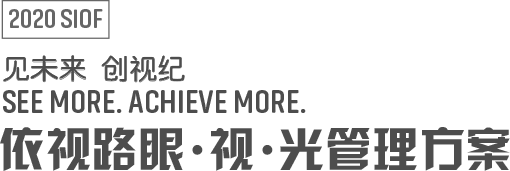
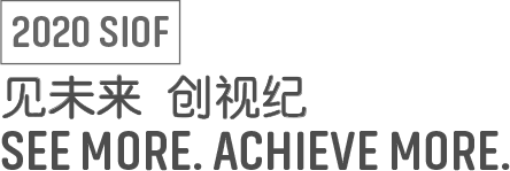
temp

Changed region(s): [[0.0, 0.0, 0.6176, 0.7018], [0.0, 0.731, 1.0, 1.0]]

diff --git a/07H5/src/components/Category.vue b/07H5/src/components/Category.vue
@@ -1,5 +1,5 @@
 <template>
-	<div class="homepage_main_container">
+	<div class="category_main_container">
 		<div class="common_logo_wrapper">
 			<div class="common_logo_item"></div>
 		</div>
@@ -8,39 +8,32 @@
 			<img src alt />
 		</div>
 		<div class="content">
-			<div class="bg" :style="navigatorStyle"></div>
-
-			<!-- <img src="@/image/homepage/navigator_00000.png" alt /> -->
-			<ul class="links">
-				<li class="link1">
-					<router-link href="javascript:;" :to="{name:'information'}" />
-				</li>
-				<li class="link2">
-					<router-link href="javascript:;" :to="{name:'interaction'}" />
-				</li>
-				<li class="link3">
-					<router-link href="javascript:;" :to="{name:'category'}" />
-				</li>
-				<li class="link4">
-					<router-link href="javascript:;" :to="{name:'customize'}" />
-				</li>
-				<li class="link5">
-					<router-link href="javascript:;" :to="{name:'entrance'}" />
-				</li>
-			</ul>
+			<div class="common_subtitle_item">
+				<img src="@/image/category/subtitle_00000.png" alt />
+			</div>
+			<div class="main">
+				<img src="@/image/category/category_content_00000.png" alt="">
+			</div>
+			<div class="common_goback_wrapper">
+				<CommonGoBack />
+			</div>
 		</div>
 	</div>
 </template>
 
 <script>
+import Swiper from 'swiper';
 
 export default {
-	name: "Homepage",
+	name: "Information",
 	components: {
 	},
 	data() {
 		return {
-			goToNextflag: false
+			goToNextflag: false,
+			dialogFlag: false,
+			dialogIndex: 0,
+
 		};
 	},
 	computed: {
@@ -51,6 +44,14 @@ export default {
 		}
 	},
 	watch: {
+		goToNextflag(value) {
+			if (value === true) {
+				this.$router.push({
+					name: 'homepage'
+				});
+
+			}
+		},
 		remUnit(value) {
 			this.$nextTick(() => {
 				let windowWidth = document.body.clientWidth.toString().replace('px', '');
@@ -61,19 +62,25 @@ export default {
 	},
 
 	mounted() {
-		// this.$autoHeight({
-		//   target: '.entrance_main_container',
-		//   force: true
-		// });
-		this.$nextTick(() => {
-			this.remUnit = Number(document.getElementsByTagName('html')[0].style.fontSize.replace('px', ''));
+		setTimeout(() => {
+			this.init();
 
-
-		});
+		}, 100)
 
 	},
 	methods: {
-
+		init() {
+			// console.log(FrameAnimation)
+			const swiper = new Swiper('.swiper-container', {
+				direction: 'horizontal',
+				slidesPerView: 'auto',
+				freeMode: true,
+				// scrollbar: {
+				// 	el: '.swiper-scrollbar',
+				// },
+				mousewheel: true,
+			})
+		},
 		initShare() {
 			let params = {
 				share: true, // true可以分享；false不可以分享
@@ -86,6 +93,14 @@ export default {
 			};
 			this.$wxsdk.initConfig(params);
 		},
+		checkDetail(index) {
+			this.dialogFlag = true
+			this.dialogIndex = index
+		},
+		close() {
+			this.dialogFlag = false
+
+		}
 	}
 }
 </script>

diff --git a/07H5/src/router/router.js b/07H5/src/router/router.js
@@ -33,6 +33,10 @@ const routes = [{
     name:'interaction',
     component: () => import('../components/Interaction.vue')
   }, {
+    path: '/category',
+    name:'category',
+    component: () => import('../components/Category.vue')
+  }, {
     path: '/lotterydraw',
     name:'lotteryDraw',
     component: () => import('../components/LotteryDraw.vue')

diff --git a/07H5/src/sass/main.scss b/07H5/src/sass/main.scss
@@ -1,4 +1,18 @@
 $yellow: #f9c978;
+.category_main_container {
+  width: 100%;
+  .common_title_item {
+    margin-top: 1rem;
+  }
+  .main{
+    width: 100%;
+    img{
+      display: block;
+      margin: 1rem auto 3rem;
+      width: 14rem
+    }
+  }
+}
 .customize_main_container {
   width: 100%;
   .common_title_item {

diff --git a/07H5/src/sass/common.scss b/07H5/src/sass/common.scss
@@ -208,13 +208,13 @@ input:-webkit-autofill {
 }
 .common_title_item {
   margin: 0 auto;
-  margin-top: 3rem;
+  margin-top: 0.75rem;
   padding: 0 0 0.75rem 0;
   width: 14rem;
   text-align: left;
   
   img {
-    width: 10.5rem;
+    width: 9rem;
     height: auto;
   }
 }
